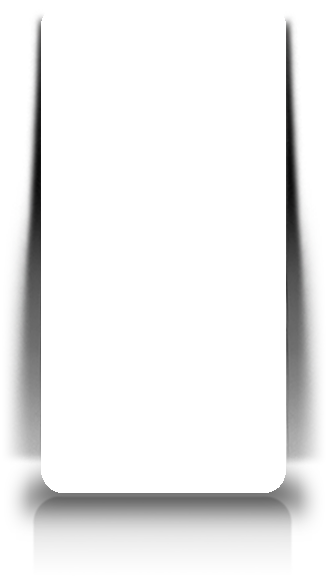
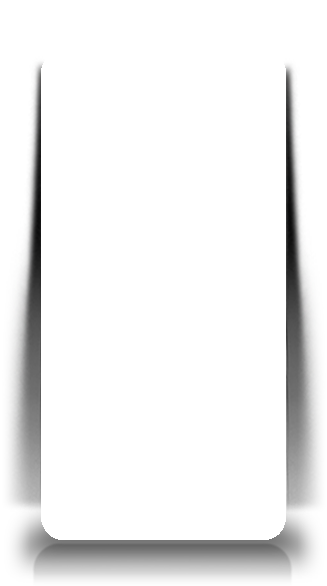
Style contents of Android section

Changed region(s): [[0.0306, 0.6451, 0.9786, 0.9829], [0.8563, 0.0307, 0.948, 0.5836], [0.0306, 0.0307, 0.1529, 0.5836]]

diff --git a/media/css/firefox/partners/desktop.less b/media/css/firefox/partners/desktop.less
@@ -41,7 +41,7 @@
     box-shadow:  0px -3px 5px 1px rgba(0, 0, 0, 0.3);
     section {
         width: 100%;
-        height: 600px;
+        height: 820px;
         position: absolute;
         top: 0;
         left: 0;
@@ -218,8 +218,40 @@
             z-index: 110;
         }
     }
-
 }
+
+#android {
+    .android-tablet {
+        width: 1021px;
+        height: 662px;
+        background: url(/media/img/firefox/partners/android-tablet-frame.png) no-repeat 0 0;
+        position: absolute;
+        top: 120px;
+        left: 50%;
+        margin-left: -40px;
+        .transition(all ease 0.6s);
+        .screen {
+            position: absolute;
+            display: block;
+            top: 58px;
+            right: 127px;
+            width: 767px;
+            height: 488px;
+            background: url(/media/img/firefox/partners/android-tablet-screen.jpg) no-repeat 0 0;
+        }
+        .android-dude {
+            position: absolute;
+            display: block;
+            top: 405px;
+            left: -75px;
+            width: 231px;
+            height: 256px;
+            background: url(/media/img/firefox/partners/android-dude.png) no-repeat 0 0;
+        }
+        
+    }
+}
+
 
 /* }}} */
 /* {{{ Overview Article */
@@ -433,12 +465,19 @@
     z-index: 121; // 1 higher than #phone-container
     .intro {
         padding-top: 140px;
+        .span(6);
+        .narrow {
+            margin-right: 100px;
+        }
     }
     .article-header {
         h2 {
             padding-top: 5px;
             font-size: 78px;
         }
+    }
+    #android-partner {
+        background: url(/media/img/firefox/partners/android-partners-bg.png) 50% 200px no-repeat;
     }
 }
 
@@ -601,15 +640,18 @@
 .android-phone-container {
     top: auto;
     bottom: -600px;
+    height: 636px;
     .transition(all ease 1s);
     .phone {
         background: url(/media/img/firefox/partners/phone-android-shadow.png) 50% 100% no-repeat;
+        height: 636px;
     }
     .phone-overlay {
-        background: url(/media/img/firefox/partners/phone-android.png) 50% 0 no-repeat;
+        background: url(/media/img/firefox/partners/phone-android.png) 50% 100% no-repeat;
+        height: 636px;
     }
     &.android-phone-visible {
-        bottom: 80px;
+        bottom: 30px;
     }
 }
 

diff --git a/apps/firefox/templates/firefox/partners/index.html b/apps/firefox/templates/firefox/partners/index.html
@@ -342,6 +342,10 @@
   </article>
 
   <article id="android" class="partner-article dark" data-section="android-overview">
+    <div class="android-tablet">
+      <div class="screen"></div>
+      <div class="android-dude"></div>
+    </div>
     <div class="article-header">
       <h2 class="tween">
         <img src="{{ media('img/firefox/partners/android-title.png')}}" alt="{{ _('Firefox for Android') }}" />
@@ -360,15 +364,15 @@
           {% endtrans %}</p>
           <h4>{{ _('Strengthen customer relationships') }}</h4>
           <p>{{ _('Create your own unique branded sections of Firefox for Android and Firefox Marketplace for a more engaging user experience and to increase the visibility of your brand.') }}</p>
-          <h4>{{ _('Drive new revenue opportunities') }}</h4>
-          <p>{{ _('Take advantage of service opportunities like Firefox Marketplace and WebRTC to create new, platform-independent offerings and establish direct customer billing.') }}</p>
+          <h4 class="narrow">{{ _('Drive new revenue opportunities') }}</h4>
+          <p class="narrow">{{ _('Take advantage of service opportunities like Firefox Marketplace and WebRTC to create new, platform-independent offerings and establish direct customer billing.') }}</p>
         </div>
       </div>
     </section>
     <section id="android-partner" class="section-2" data-pos="2">
       <div class="article-content">
         <div class="intro tween">
-          <h4>{{ _('Stand out from the crowd') }}</h4>
+          <h3>{{ _('Stand out from the crowd') }}</h3>
           <p>{{ _('Take advantage of our strong brand and service offerings to differentiate your product and drive sales.') }}</p>
           <h4>{{ _('Firefox for Android lets you:') }}</h4>
           <ul>

diff --git a/media/js/firefox/partners/desktop.js b/media/js/firefox/partners/desktop.js
@@ -14,6 +14,7 @@
     var $os_giantfox_tail = $('#os .giantfox .giantfox-foreground');
     var $marketplace_giantfox = $('#marketplace .giantfox');
     var $marketplcae_giantfox_tail = $('#marketplace .giantfox .giantfox-foreground');
+    var $android_tablet = $('#android .android-tablet');
     var $phone = $('#phone-common');
     var $phone_android = $('#phone-android');
     var $phone_shadows = $('.phone-shadow');
@@ -56,6 +57,7 @@
             $phone_android.animate({ 'left': '50%' }, phone_speed);
             $os_giantfox.css('margin-left', '-70px');
             $marketplace_giantfox.css('margin-left', '-40px');
+            $android_tablet.css('margin-left', '-40px');
 
             // force all first sections to be current
             $('.partner-article').each(function(i, article) {
@@ -171,6 +173,14 @@
 
         $('a[data-section="marketplace-overview"]').on('click', function() {
             $marketplace_giantfox.css('margin-left', '-40px');
+        });
+
+        $('a[data-section="android-partner"]').on('click', function() {
+            $android_tablet.css('margin-left', '-1520px');
+        });
+
+        $('a[data-section="android-overview"]').on('click', function() {
+            $android_tablet.css('margin-left', '-40px');
         });
 
         var _fade_phone_shadow = function(shadow, inout) {

diff --git a/media/css/firefox/partners.less b/media/css/firefox/partners.less
@@ -391,6 +391,33 @@
 /* }}} */
 /* {{{ Firefox for Android section */
 
+#android {
+    #android-partner {
+        .intro {
+            h3 {
+                font-size: 56px;
+                letter-spacing: -2px;
+            }
+            ul {
+                li {
+                    list-style-type: none;
+                    margin: 10px 0;
+                    padding: 0;
+                    h5 {
+                        font-weight: bold;
+                        text-transform: uppercase;
+                        color: #7ecdff;
+                        margin-bottom: 5px;
+                    }
+                }
+            }
+        }
+    }
+}
+
+/* }}} */
+/* {{{ Overlay / Form */
+
 #overlay {
     display: none;
 }
